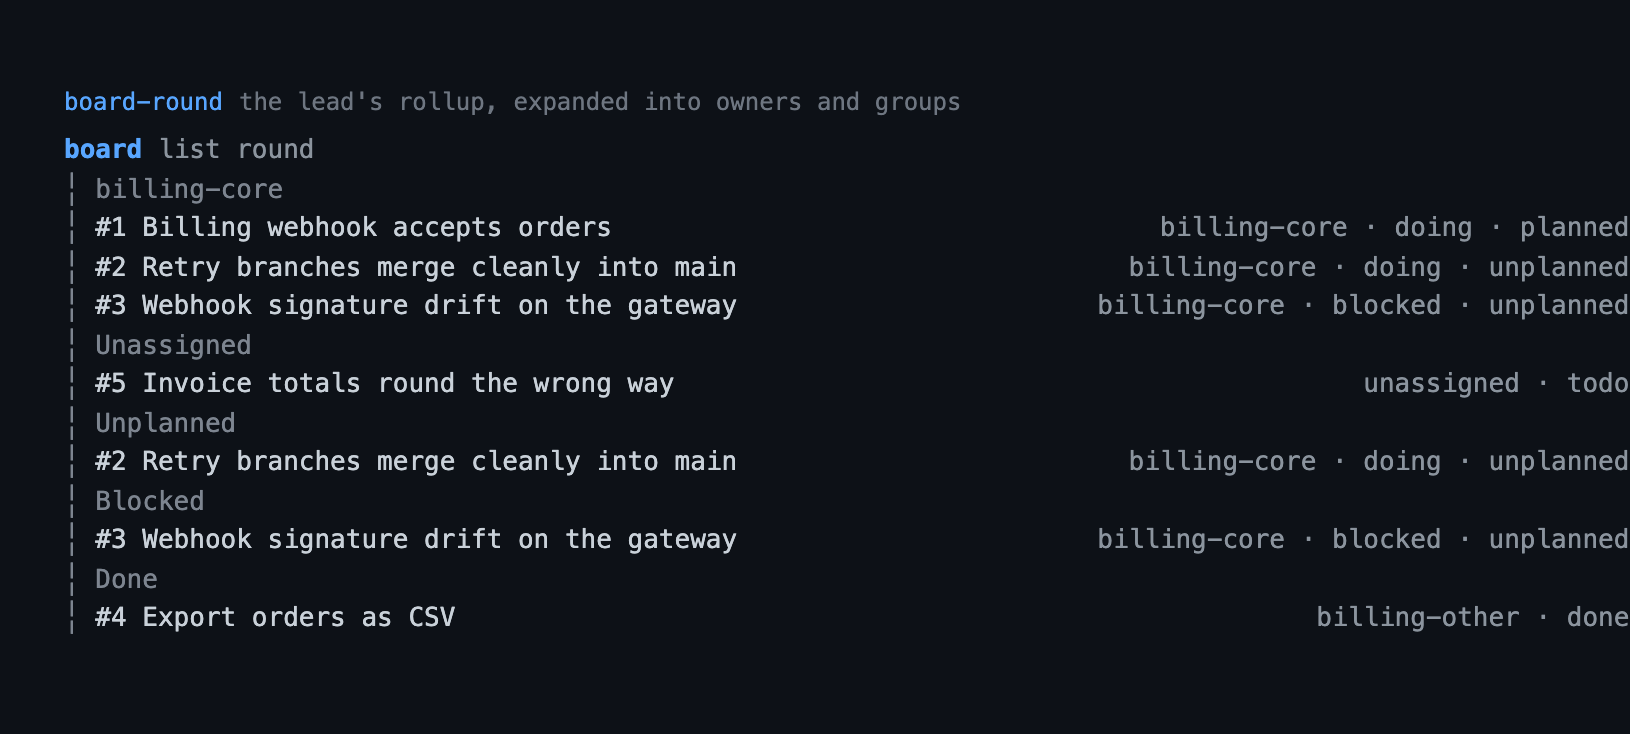
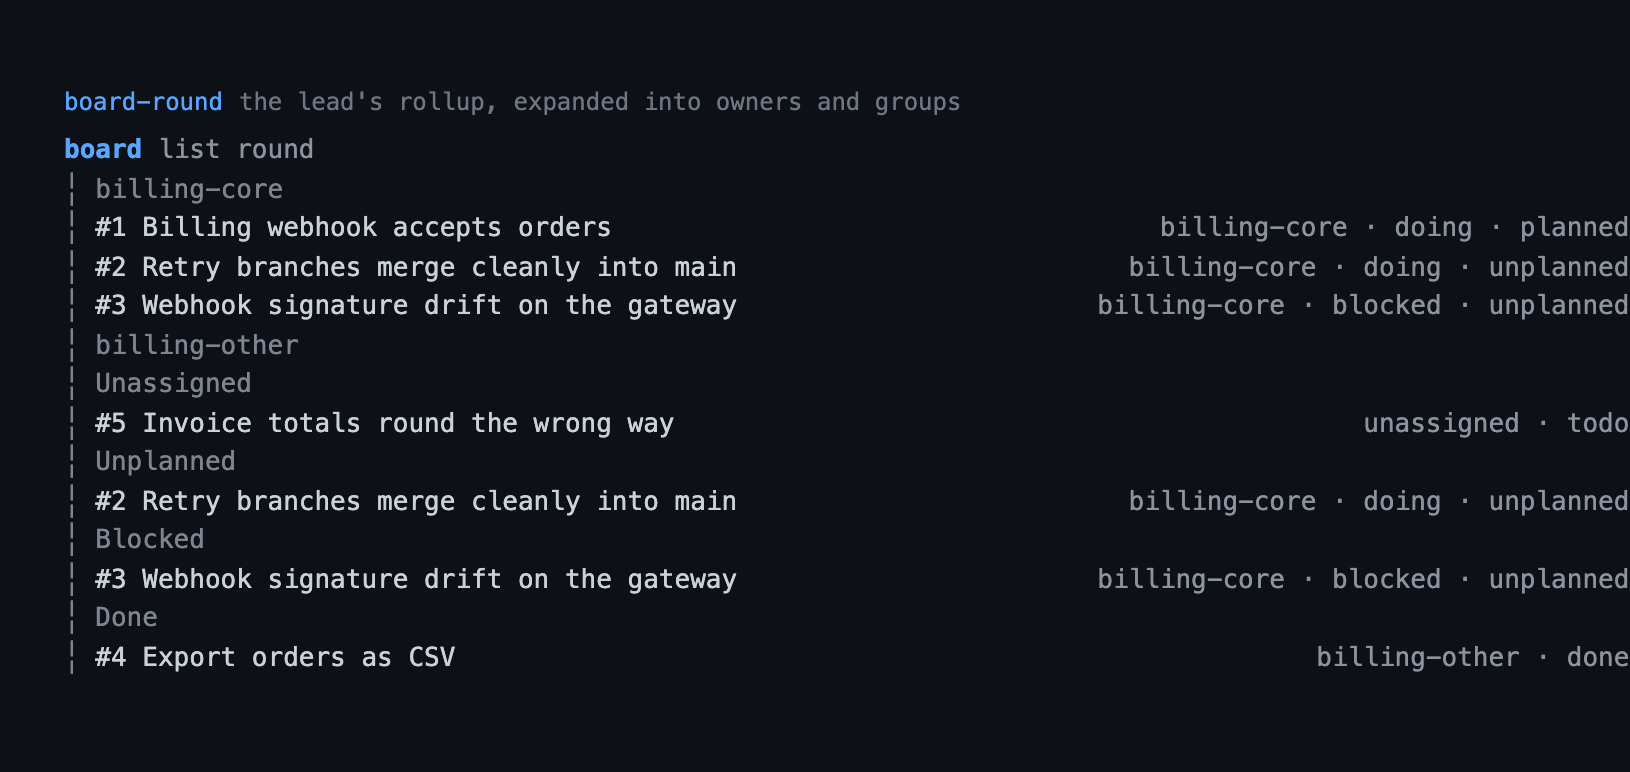
fix(board): keep an owner who finished on the rollup
`buildRound` skipped every card whose lane was `done` before grouping by owner, so
an owner's last card finishing deleted the owner: `/board team` listed `ben` while
`ben` held a card, then dropped the row, and `board list round: true` lost the line
too. A teammate who did the work is the last one a round should stop naming.

The live tally is why the skip existed — a done card is counted in `done`, and
counting it in an owner group too would make the two disagree — so a group now
carries its finished cards beside its live ones: `cards` stays the live list every
tally reads, `done` is the history that keeps the row. The page's owners table says
it plainly (`Owner · Live · Done · Oldest`, with `—` where a count does not apply),
and the tool's rollup reads `billing-lead (0 live, 1 done)` rather than a bare zero.

diff --git a/lib/board/round.ts b/lib/board/round.ts
@@ -20,10 +20,12 @@ import type { Card } from "./card.ts";
 /** How long a `doing` card may go untouched before the rollup calls it idle. */
 export const IDLE_MS = 30 * 60 * 1_000;
 
-/** One owner and the live cards it holds. */
+/** One owner, the live cards it holds, and the ones it finished. */
 export interface RoundGroup {
 	label: string;
 	cards: Card[];
+	/** This owner's finished cards: history, kept so a teammate who is done is not erased. */
+	done: Card[];
 }
 
 /** The lead's rollup of one board. */
@@ -45,8 +47,11 @@ export interface RoundSummary {
 /**
  * The rollup of `cards` at `now`.
  *
- * Owner groups hold the unfinished cards only: a finished one is in `done` and
- * counting it twice would make the tallies disagree with the lanes. Two owners
+ * `cards` holds the unfinished cards only: a finished one is also in `done` and
+ * counting it twice would make the tallies disagree with the lanes. A finished card
+ * still names its owner, in the group's `done`, because an owner whose last card is
+ * done has not left the board — dropping the group erased a teammate the round had
+ * just finished. Two owners
  * whose labels differ only by case are one owner — a name is case-insensitive when
  * it is a send target, so it is here too — and the first spelling seen is kept.
  */
@@ -65,10 +70,11 @@ export function buildRound(cards: readonly Card[], now: number): RoundSummary {
 		if (card.status === "doing" && card.plan === undefined) unplanned.push(card);
 		if (card.status === "doing" && now - card.updatedAt >= IDLE_MS) idle.push(card);
 
-		if (card.owner === undefined || card.status === "done") continue;
+		if (card.owner === undefined) continue;
 		const key = card.owner.label.toLowerCase();
-		const group = groups.get(key) ?? { label: card.owner.label, cards: [] };
-		group.cards.push(card);
+		const group = groups.get(key) ?? { label: card.owner.label, cards: [], done: [] };
+		if (card.status === "done") group.done.push(card);
+		else group.cards.push(card);
 		groups.set(key, group);
 	}
 

diff --git a/extensions/board/view/team.ts b/extensions/board/view/team.ts
@@ -135,8 +135,13 @@ export const BOARD_TEAM_JS = String.raw`(function () {
     var owners = el("section", "board-team__group");
     var ownerGroups = [];
     for (var i = 0; i < round.owners.length; i++) {
+      // Live and finished both count as this owner's, so a teammate whose last card is
+      // done keeps its row instead of vanishing from the table the moment it finishes.
       var cards = round.owners[i].cards.filter(keep);
-      if (cards.length > 0) ownerGroups.push({ label: round.owners[i].label, cards: cards });
+      var finished = round.owners[i].done.filter(keep);
+      if (cards.length > 0 || finished.length > 0) {
+        ownerGroups.push({ label: round.owners[i].label, cards: cards, done: finished });
+      }
     }
     owners.appendChild(heading("Owners", ownerGroups.length, round.owners.length));
     if (ownerGroups.length === 0) {
@@ -144,9 +149,16 @@ export const BOARD_TEAM_JS = String.raw`(function () {
     } else {
       var ownerRows = [];
       for (var j = 0; j < ownerGroups.length; j++) {
-        ownerRows.push(row([chip(ownerGroups[j].label, "accent"), String(ownerGroups[j].cards.length), oldest(ownerGroups[j].cards)]));
+        var group = ownerGroups[j];
+        var held = group.cards.length;
+        ownerRows.push(row([
+          chip(group.label, "accent"),
+          String(held),
+          group.done.length > 0 ? String(group.done.length) : "\u2014",
+          held > 0 ? oldest(group.cards) : "\u2014",
+        ]));
       }
-      owners.appendChild(table(["Owner", "Cards", "Oldest"], ownerRows, "board-team__owners"));
+      owners.appendChild(table(["Owner", "Live", "Done", "Oldest"], ownerRows, "board-team__owners"));
     }
     root.appendChild(owners);
 

diff --git a/lib/board/round.test.ts b/lib/board/round.test.ts
@@ -36,6 +36,24 @@ function doing(id: string, overrides: Partial<Card> = {}): Card {
 }
 
 describe("buildRound", () => {
+	test("keeps an owner whose every card is done, and counts each kind once", () => {
+		const round = buildRound(
+			[
+				doing("1"),
+				card("2", { status: "done", owner: { id: "s-ben", label: "ben" } }),
+				card("3", { status: "done", owner: { id: "s-ben", label: "ben" } }),
+			],
+			NOW,
+		);
+		// A teammate who finished has not left: the group stays, holding no live card.
+		const ben = round.owners.find((group) => group.label === "ben");
+		expect(ben?.cards).toEqual([]);
+		expect(ben?.done.map((entry) => entry.id)).toEqual(["2", "3"]);
+		// The live tally still reads what the lanes read: a done card is counted in `done`.
+		expect(round.owners.flatMap((group) => group.cards).map((entry) => entry.id)).toEqual(["1"]);
+		expect(round.done.map((entry) => entry.id)).toEqual(["2", "3"]);
+	});
+
 	test("groups unfinished cards by owner, ordered by label", () => {
 		const round = buildRound(
 			[

diff --git a/extensions/board/tools.test.ts b/extensions/board/tools.test.ts
@@ -108,6 +108,18 @@ describe("list", () => {
 		expect(text(await call({ action: "list", card: "9" }))).toContain("#9 does not exist.");
 	});
 
+	test("names an owner who finished, with the count of what it finished", async () => {
+		const { call } = harness();
+		await call({ action: "add", title: "One" });
+		await call({ action: "claim", card: "1" });
+		await call({ action: "move", card: "1", status: "done" });
+		const result = await call({ action: "list", round: true });
+		// The group survives its last card finishing, and the line says so plainly
+		// instead of leaving a bare "0" next to a teammate who did the work.
+		expect(result.details.round?.owners.map((group) => group.label)).toEqual(["billing-lead"]);
+		expect(text(result)).toContain("billing-lead (0 live, 1 done)");
+	});
+
 	test("filters one lane", async () => {
 		const { call } = harness();
 		await call({ action: "add", title: "One" });

diff --git a/extensions/board/format.ts b/extensions/board/format.ts
@@ -41,7 +41,12 @@ export function formatRound(cards: readonly Card[], round: RoundSummary): string
 	].join(" · ");
 	const lines = [headline];
 	for (const group of round.owners) {
-		lines.push(`${group.label} (${group.cards.length}): ${group.cards.map((card) => brief(card)).join(", ")}`);
+		// An owner who finished everything is still listed, with what it finished: the
+		// count says which kind of work is left, and an empty list is a legitimate answer.
+		const counts =
+			group.done.length > 0 ? `${group.cards.length} live, ${group.done.length} done` : `${group.cards.length}`;
+		const listed = group.cards.map((card) => brief(card)).join(", ");
+		lines.push(listed === "" ? `${group.label} (${counts})` : `${group.label} (${counts}): ${listed}`);
 	}
 	lines.push(...group("unassigned", round.unassigned));
 	lines.push(...group("unplanned", round.unplanned));

diff --git a/extensions/board/view/styles.ts b/extensions/board/view/styles.ts
@@ -119,9 +119,10 @@ ${WEB_COMPONENTS_CSS}
 .board-dialog__note-composer .bf-field{margin:0}
 /* A summary of one owner should read as a group, not as three fragments across a page. */
 .board-team__owners,.board-team__needs{max-width:60rem}
-.board-team__owners th:nth-child(1){width:50%}
-.board-team__owners th:nth-child(2){width:20%}
-.board-team__owners th:nth-child(3){width:30%}
+.board-team__owners th:nth-child(1){width:44%}
+.board-team__owners th:nth-child(2){width:14%}
+.board-team__owners th:nth-child(3){width:14%}
+.board-team__owners th:nth-child(4){width:28%}
 .board-team__needs{table-layout:fixed}
 .board-team__needs th:nth-child(1){width:44%}
 .board-team__needs th:nth-child(2){width:32%}

diff --git a/docs/extensions/board.md b/docs/extensions/board.md
@@ -18,7 +18,7 @@ decision.
 | Capability | How | What you get |
 |---|---|---|
 | A shared feature list for one repository | `board` action `list` | Every card in lane order — `todo`, `doing`, `blocked`, `done` — or one card, or one lane |
-| The lead's rollup | `board` action `list` with `round: true` | Owners and their live cards, then unassigned, unplanned, blocked, idle, and done |
+| The lead's rollup | `board` action `list` with `round: true` | Every owner with its live cards and, beside the count, what it has finished — an owner whose last card is done stays listed — then unassigned, unplanned, blocked, idle, and done |
 | Publish a feature | `board` action `add` | A `todo` card with path hints and a first note |
 | Take a feature | `board` action `claim` | The card is `doing` and owned by this session |
 | Hand it back | `board` action `release` | The card is `todo` again, with no owner |
@@ -97,7 +97,7 @@ pinned and makes the main pane the only scroll box; the page adds no second one.
 | Composer | a drawer the toolbar's button (or `n`) opens: a title, space-separated path hints, the hint line, `Cancel`, and **Add card**; it stays open after an add, so a lead can publish several cards |
 | Lanes | trays, not a bare list: four columns at ≥1180, two rows at 1000, one lane plus the lane switch at ≤860 — where it opens on the first lane that holds a card. Each head sticks while the pane scrolls, carries its count as a pill, and folds its cards away |
 | Cards | the id and a two-line title (the page's loudest text), an owner chip and an age, path chips, one reason line (clamped, with the whole sentence as its tooltip), and at most three actions — `Claim` or `Move` bordered, then `Note` and `Open`. A hovered card lifts a pixel; a finished one recedes, title and owner chip muted |
-| Team | a table of owners (`Owner · Cards · Oldest`), a table of cards that need a decision (`Card · Why · Owner` with `Reclaim`), and one muted Done line. Both tables honour the toolbar's filter, and their headings read `shown/total` the way a lane head does |
+| Team | a table of owners (`Owner · Live · Done · Oldest`, where an owner who finished keeps its row), a table of cards that need a decision (`Card · Why · Owner` with `Reclaim`), and one muted Done line. Both tables honour the toolbar's filter, and their headings read `shown/total` the way a lane head does |
 | Card dialog | the lane as a dot and a word beside the title, a meta line, the owner, the paths, the plan as monospace text, the notes as a timeline (who and when above the sentence, a rule between them), a note field, and `Move to` only the lanes the card can reach, then `Release`, `Drop`, `Close` |
 
 Colour is a role: `--muted` for `todo`, `--accent` for `doing`, `--danger` for

diff --git a/CHANGELOG.md b/CHANGELOG.md
@@ -19,7 +19,9 @@ to [Semantic Versioning](https://semver.org/spec/v2.0.0.html).
   the first lane that holds a card. The card dialog names its lane with the same dot and
   word a lane head wears, separates its notes with who and when on their own line, and
   offers `Move to` only the lanes the card can reach, so the lane it is already in is
-  never a disabled button that looks selected.
+  never a disabled button that looks selected. The Team tab's owners table counts live
+  and finished cards apart, and an owner whose last card is done keeps its row instead
+  of vanishing from the rollup the moment the work ends.
   Both modals are now the kit's `bf-dialog` behind one `dialogScript` (the Tab trap,
   `Esc`, the backdrop click, and the focus return the shared contract promises),
   replacing the page's own native-dialog implementation, and a closed tab lets the
